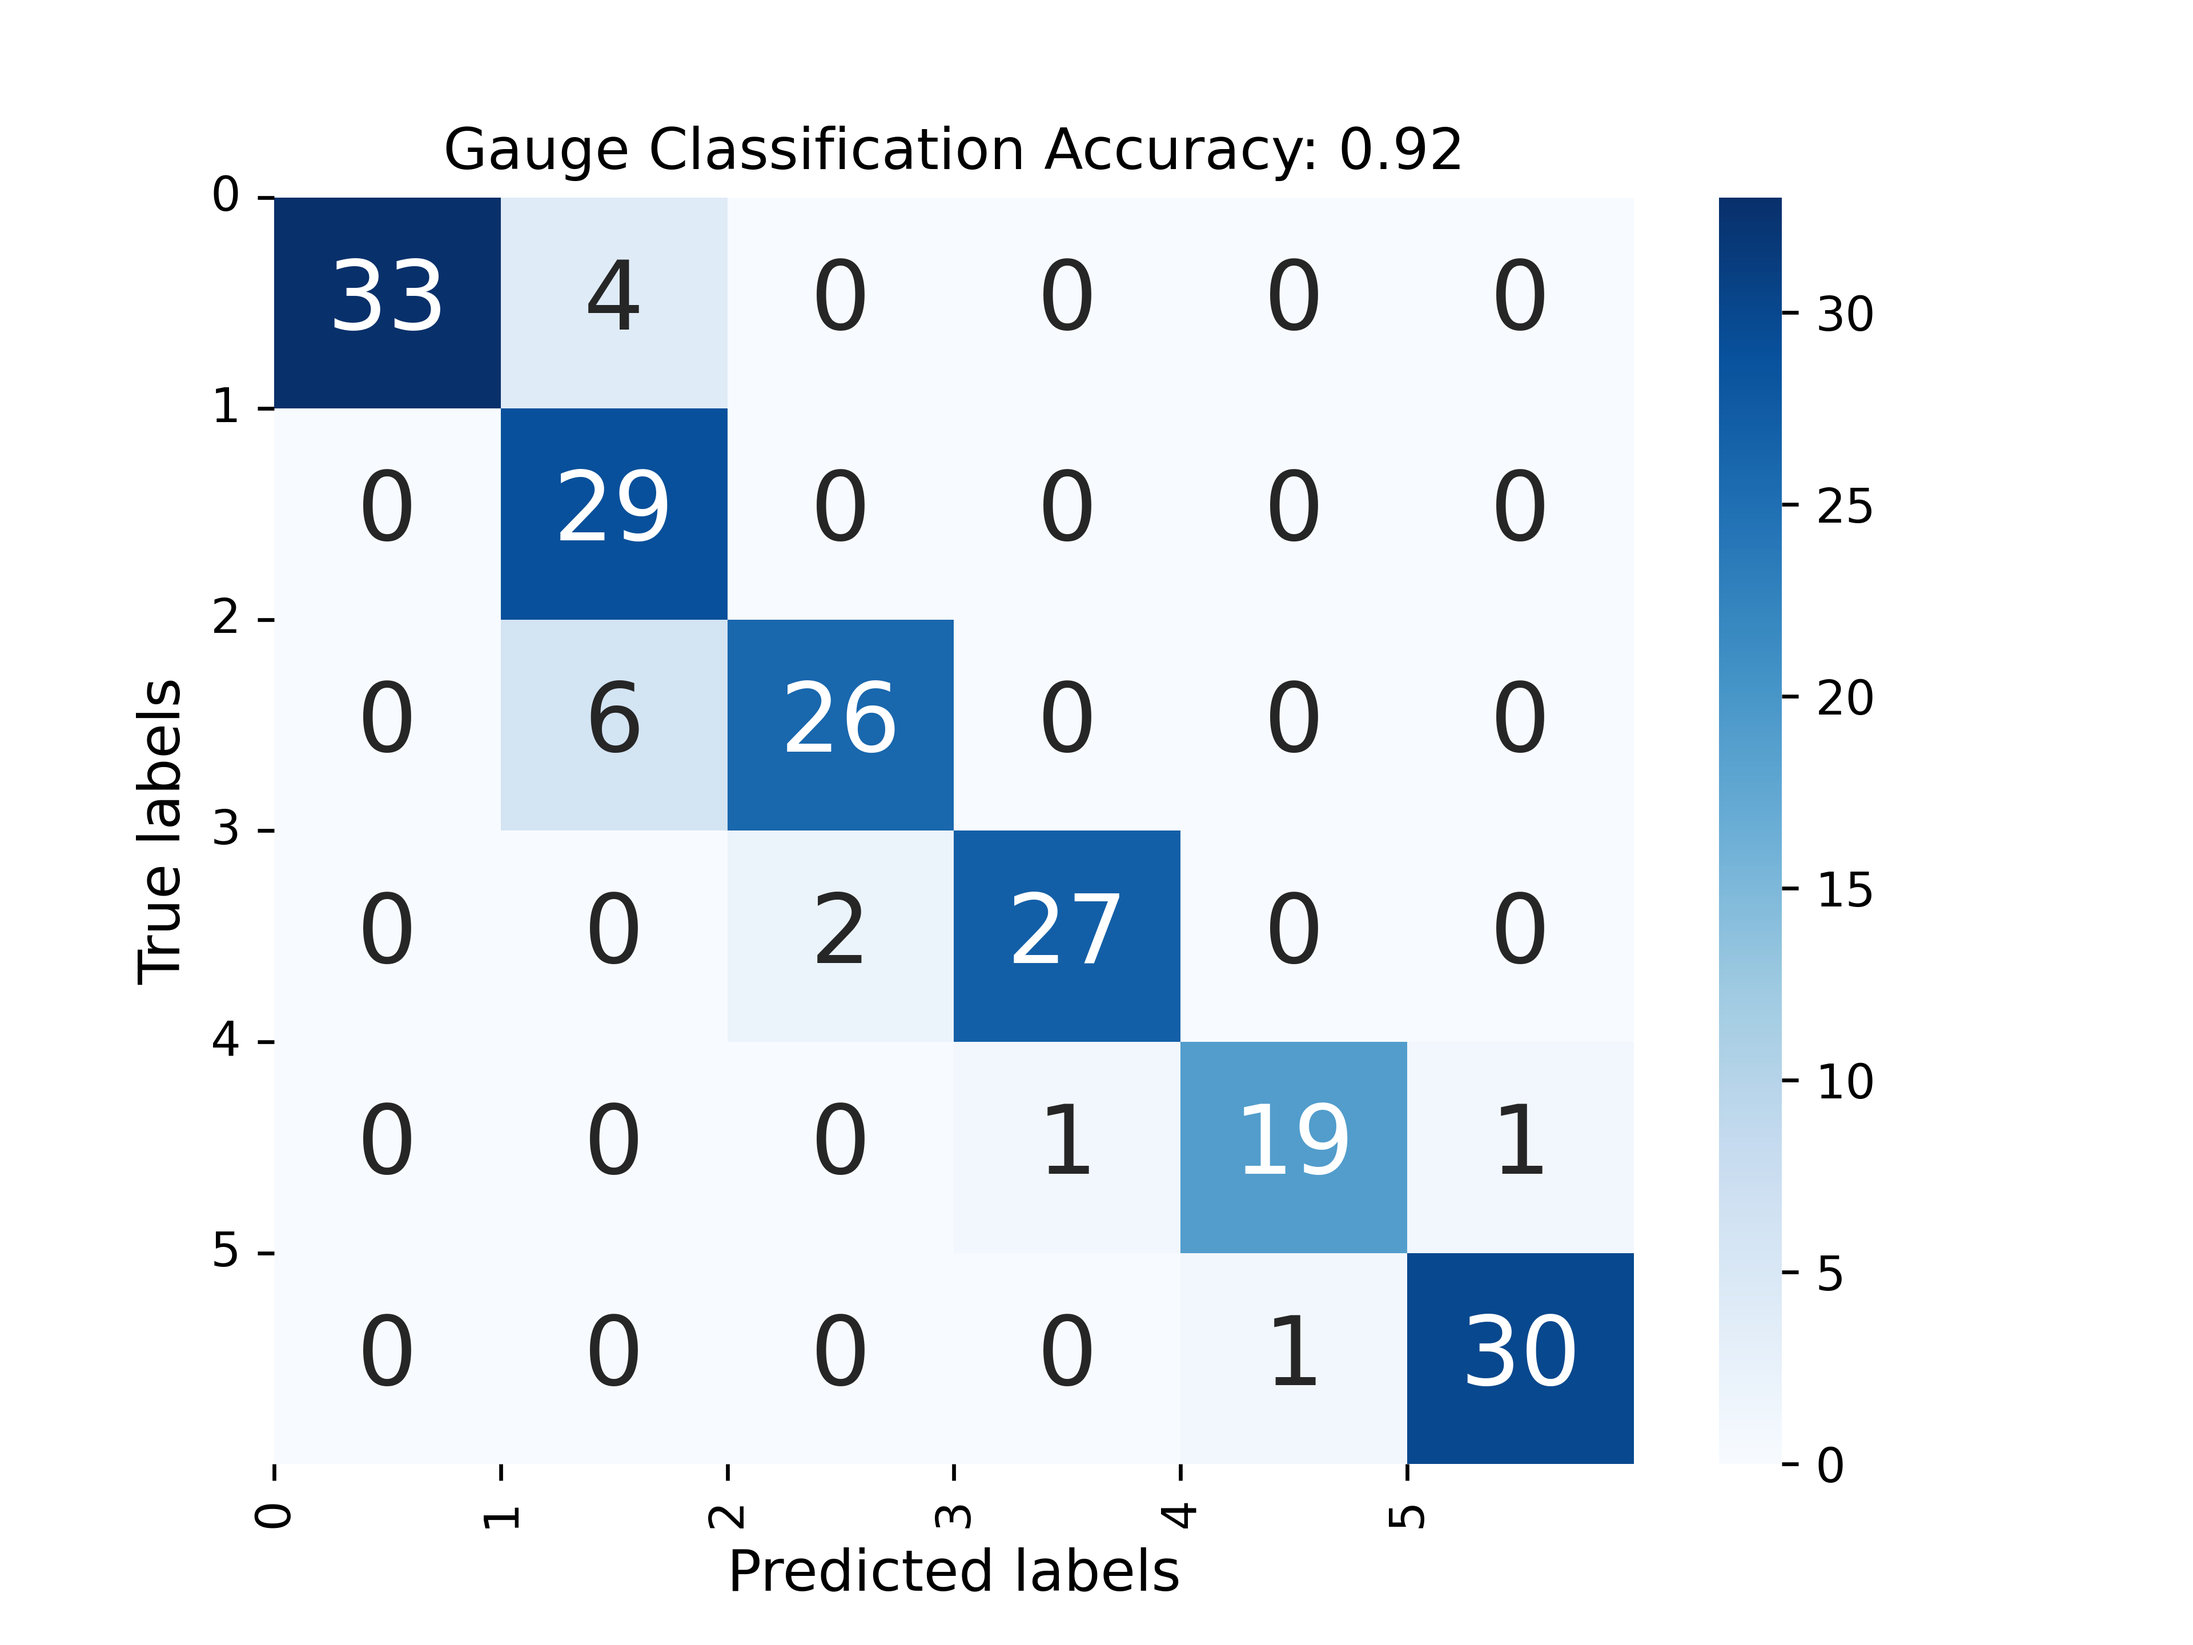
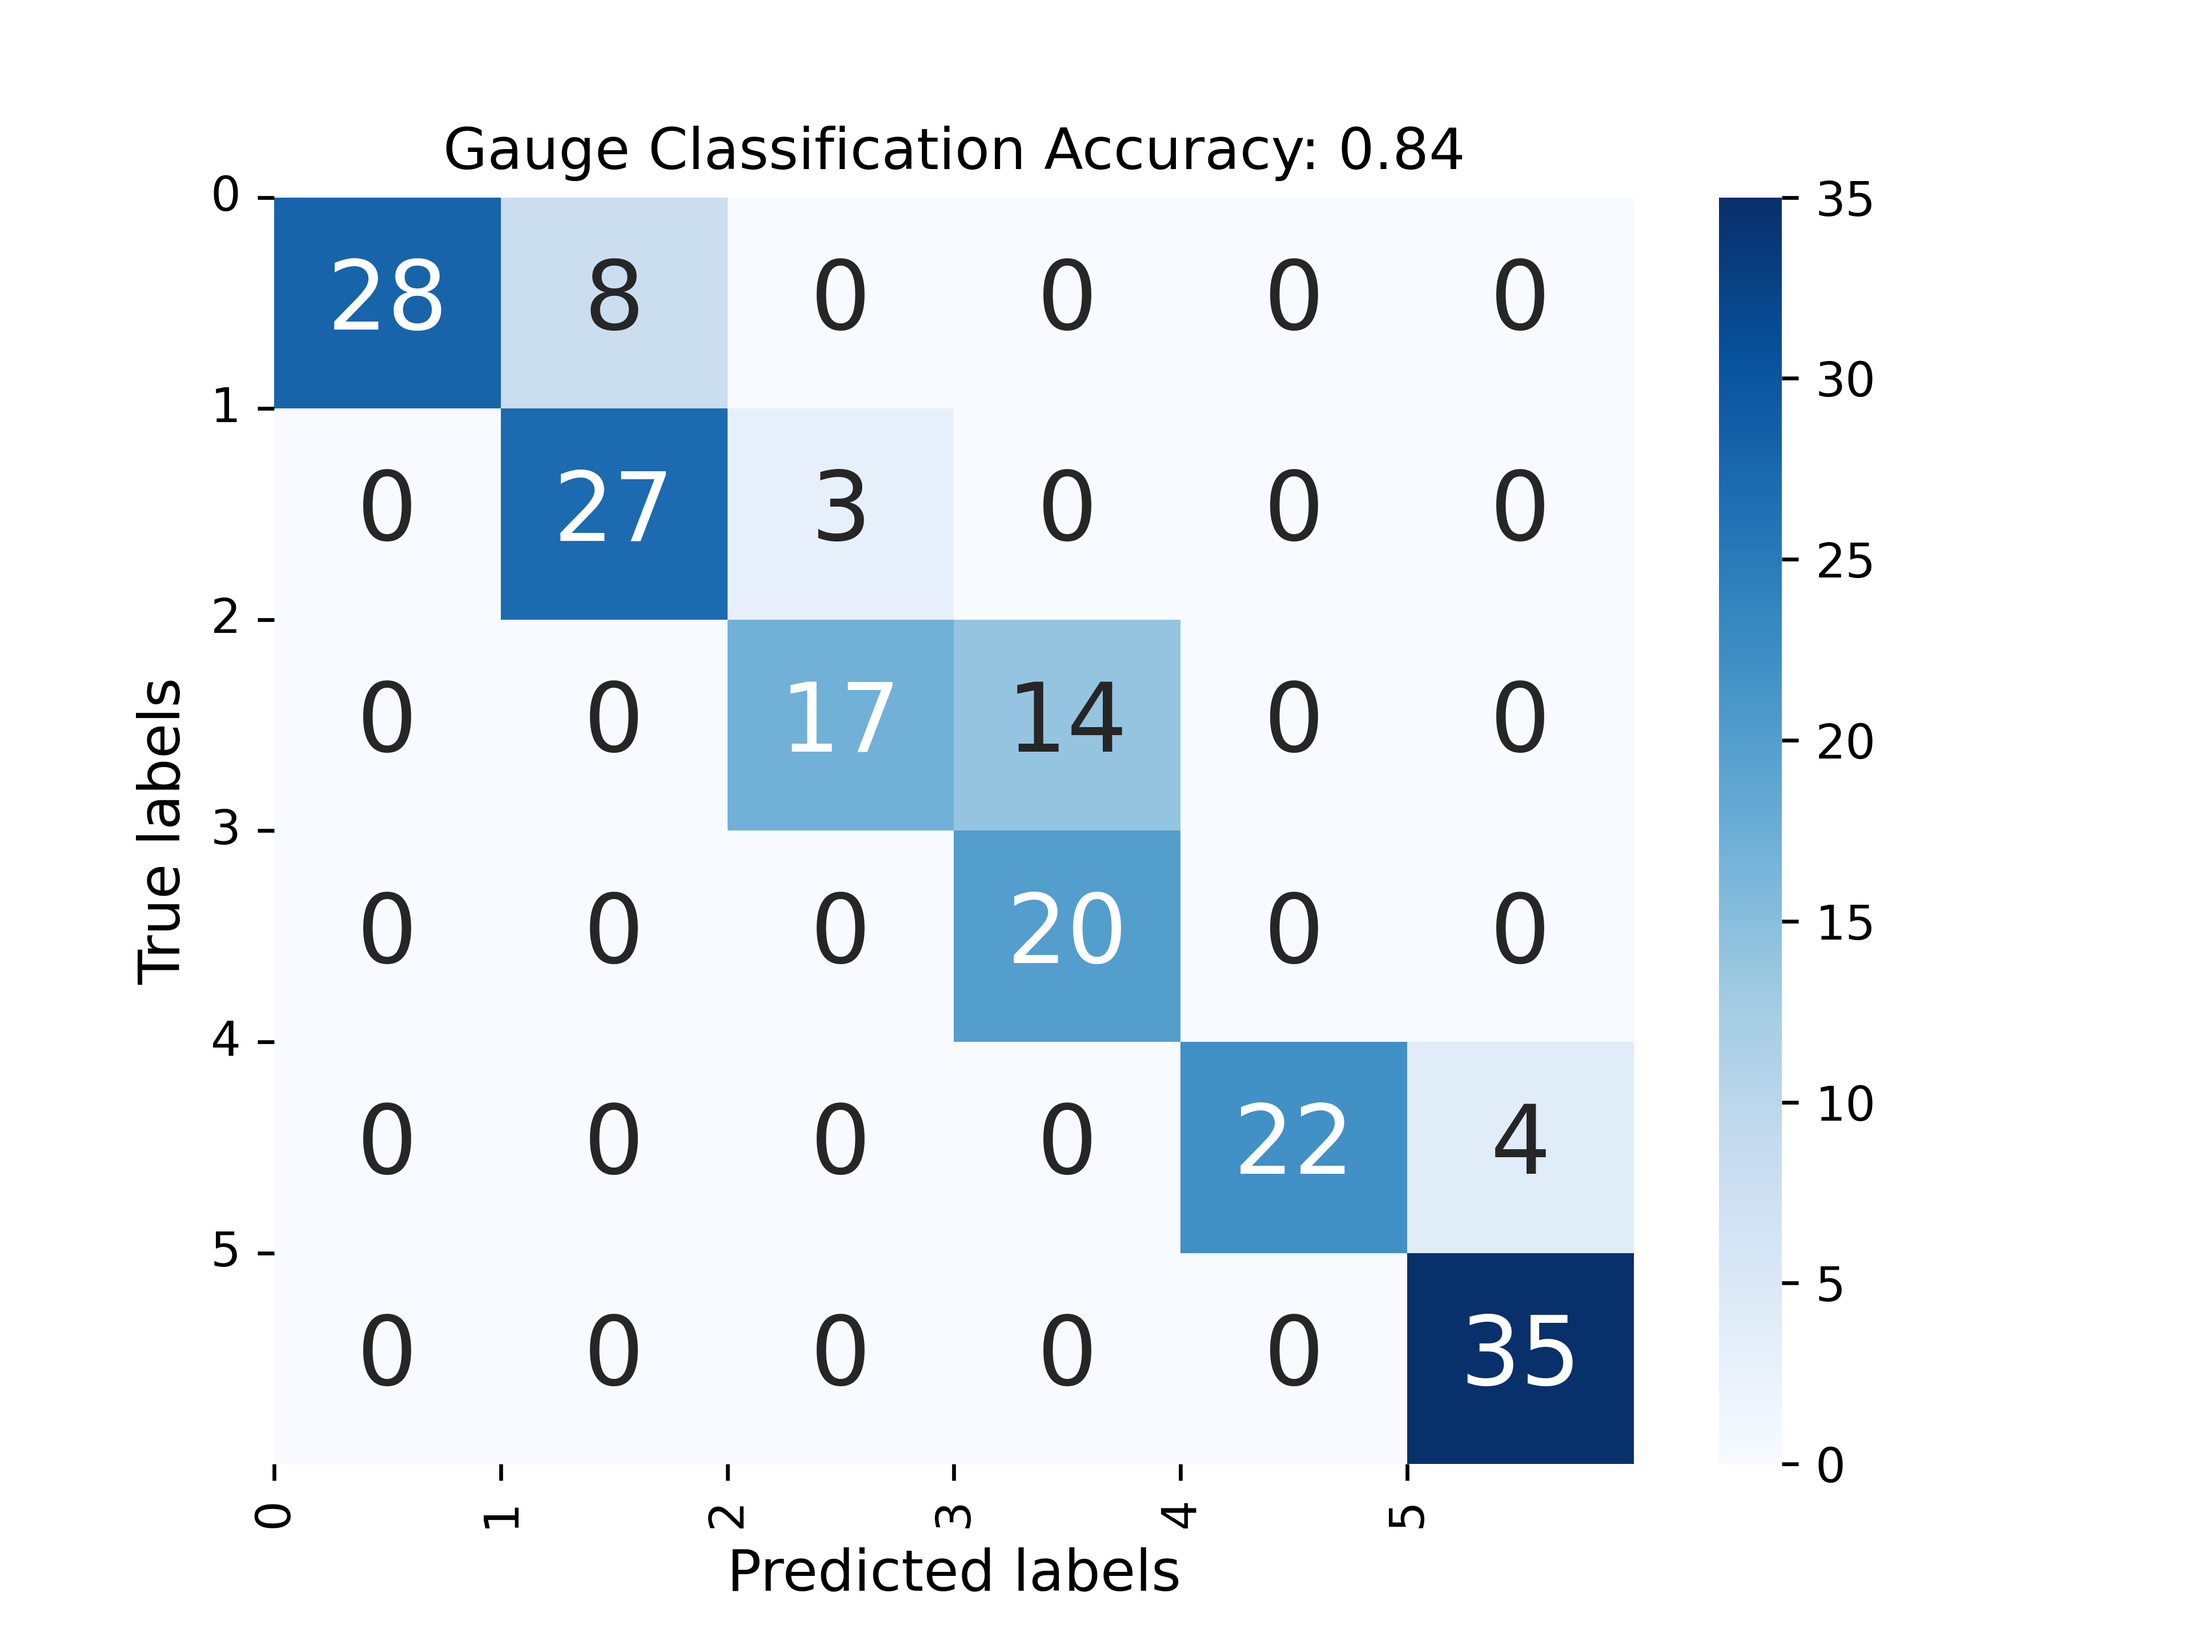
updated classifier

diff --git a/gauge-levels-classifier.py b/gauge-levels-classifier.py
@@ -9,6 +9,7 @@ import matplotlib.pyplot as plt
 from sklearn.model_selection import train_test_split
 from sklearn.metrics import confusion_matrix, classification_report
 
+
 # Paths to images and labels
 IMAGES_PATH = 'images/generated/gauges/'
 LABELS_CSV = 'images/generated/labels.csv'
@@ -17,6 +18,7 @@ LABELS_CSV = 'images/generated/labels.csv'
 IMG_HEIGHT = 28
 IMG_WIDTH = 28
 CHANNELS = 1
+BATCH_SIZE = 20
 
 # Read labels CSV
 labels_df = pd.read_csv(LABELS_CSV)
@@ -45,19 +47,33 @@ labels = label_binarizer.fit_transform(labels)
 # Train-test split
 X_train, X_test, y_train, y_test = train_test_split(images, labels, test_size=0.3, random_state=42)
 
+# Data Augmentation
+datagen_train = tf.keras.preprocessing.image.ImageDataGenerator(
+    rotation_range=10,
+    width_shift_range=0.1,
+    height_shift_range=0.1,
+    zoom_range=0.1,
+    horizontal_flip=True
+)
+
+datagen_test = tf.keras.preprocessing.image.ImageDataGenerator()
+
+train_generator = datagen_train.flow(X_train, y_train, batch_size=BATCH_SIZE)
+test_generator = datagen_test.flow(X_test, y_test, batch_size=BATCH_SIZE)
+
 # Model definition
 model = tf.keras.models.Sequential([
     tf.keras.layers.Input(shape=(IMG_HEIGHT, IMG_WIDTH, CHANNELS)),
-    tf.keras.layers.Conv2D(16, (3, 3), activation='relu'),
+    tf.keras.layers.Conv2D(32, (5, 5), activation='relu'),
     tf.keras.layers.MaxPooling2D((2, 2)),
 
-    tf.keras.layers.Conv2D(12, (3, 3), activation='relu'),
+    tf.keras.layers.Conv2D(20, (5, 5), activation='relu'),
     tf.keras.layers.MaxPooling2D((2, 2)),
 
     tf.keras.layers.Flatten(),
 
-    tf.keras.layers.Dense(20, activation='relu'),
-    tf.keras.layers.Dropout(0.25),
+    tf.keras.layers.Dense(128, activation='relu'),
+    tf.keras.layers.Dropout(0.3),
     tf.keras.layers.Dense(6, activation='softmax')
 ])
 
@@ -67,7 +83,7 @@ model.compile(optimizer=tf.keras.optimizers.Adam(learning_rate=0.001), loss='cat
 # Print model summary
 model.summary()
 
-history = model.fit(X_train, y_train, epochs=100, batch_size=32, validation_data=(X_test, y_test))
+history = model.fit(train_generator, epochs=300, validation_data=test_generator)
 
 # Evaluate the model
 test_loss, test_acc = model.evaluate(X_test, y_test)
